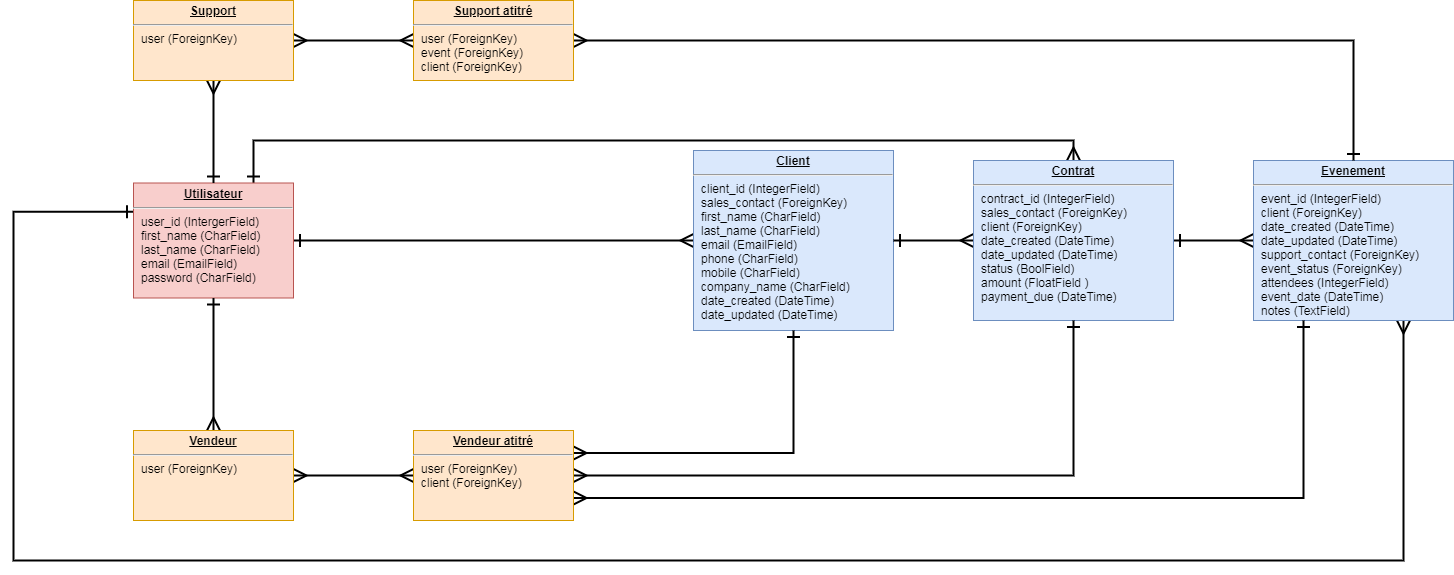
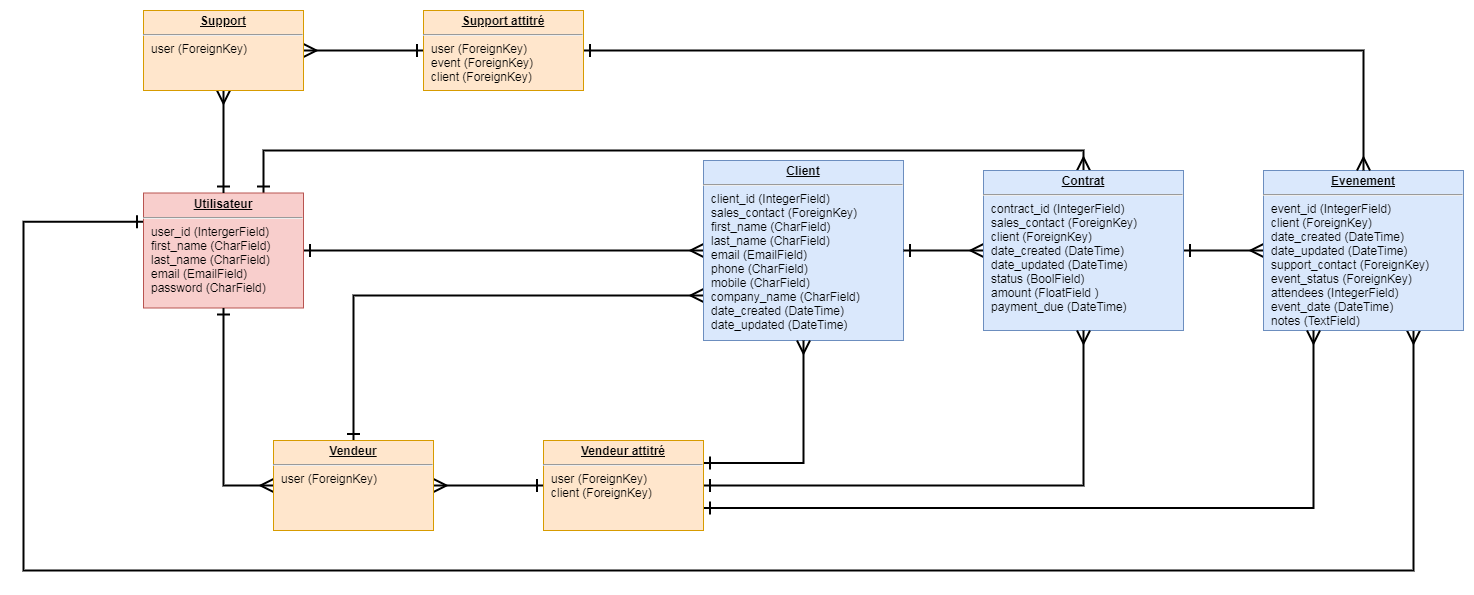
minor fix : ERD relations revised & rest_framework.authtoken deleted

Changed region(s): [[0.0, 0.0, 1.0, 0.9757]]

diff --git a/CRM/CRM_epic_event/settings.py b/CRM/CRM_epic_event/settings.py
@@ -43,7 +43,6 @@ INSTALLED_APPS = [
     'django.contrib.staticfiles',
     # framework
     'rest_framework',
-    'rest_framework.authtoken',
     # apps
     'client.apps.ClientConfig',
     'contract.apps.ContractConfig',
